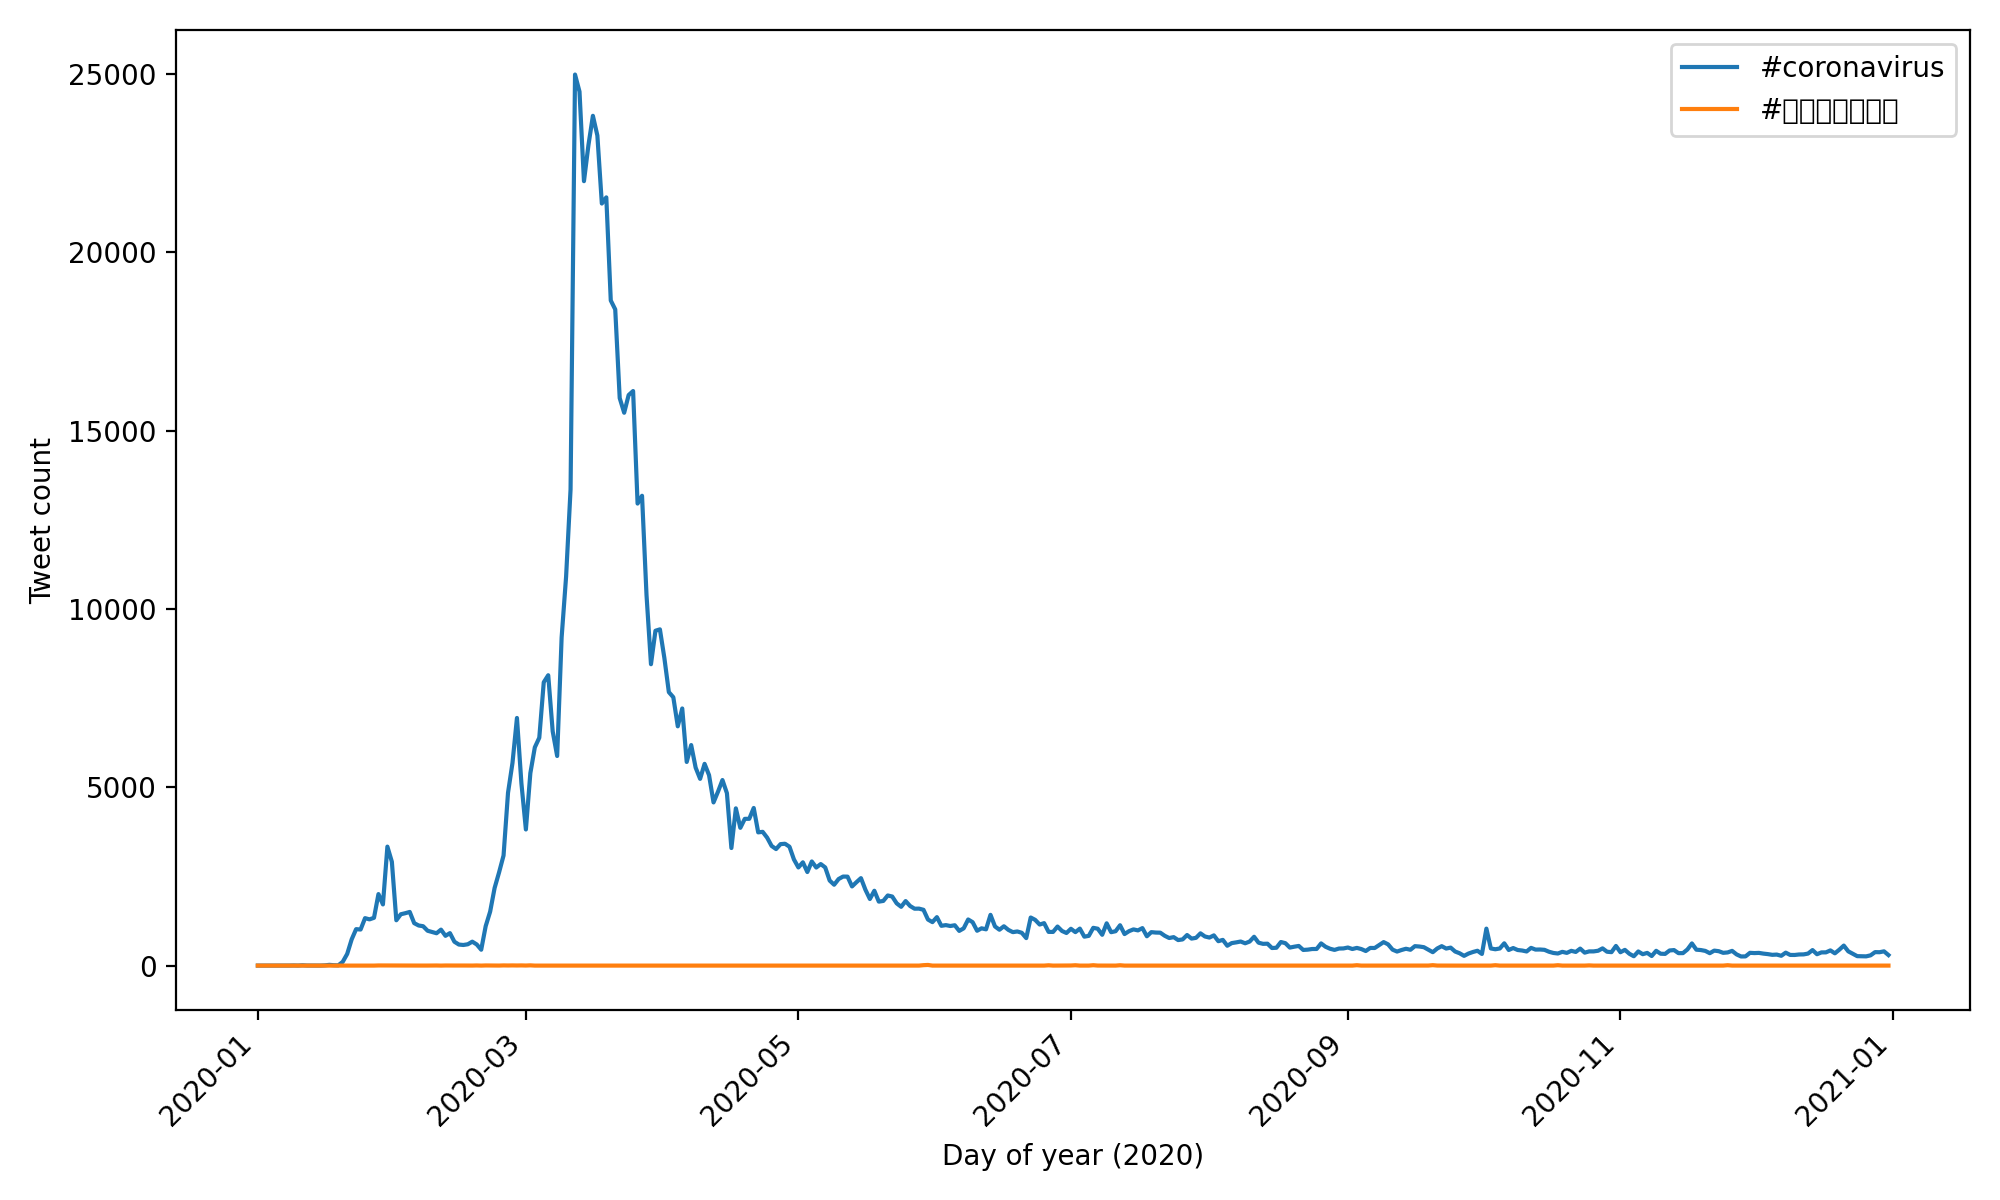
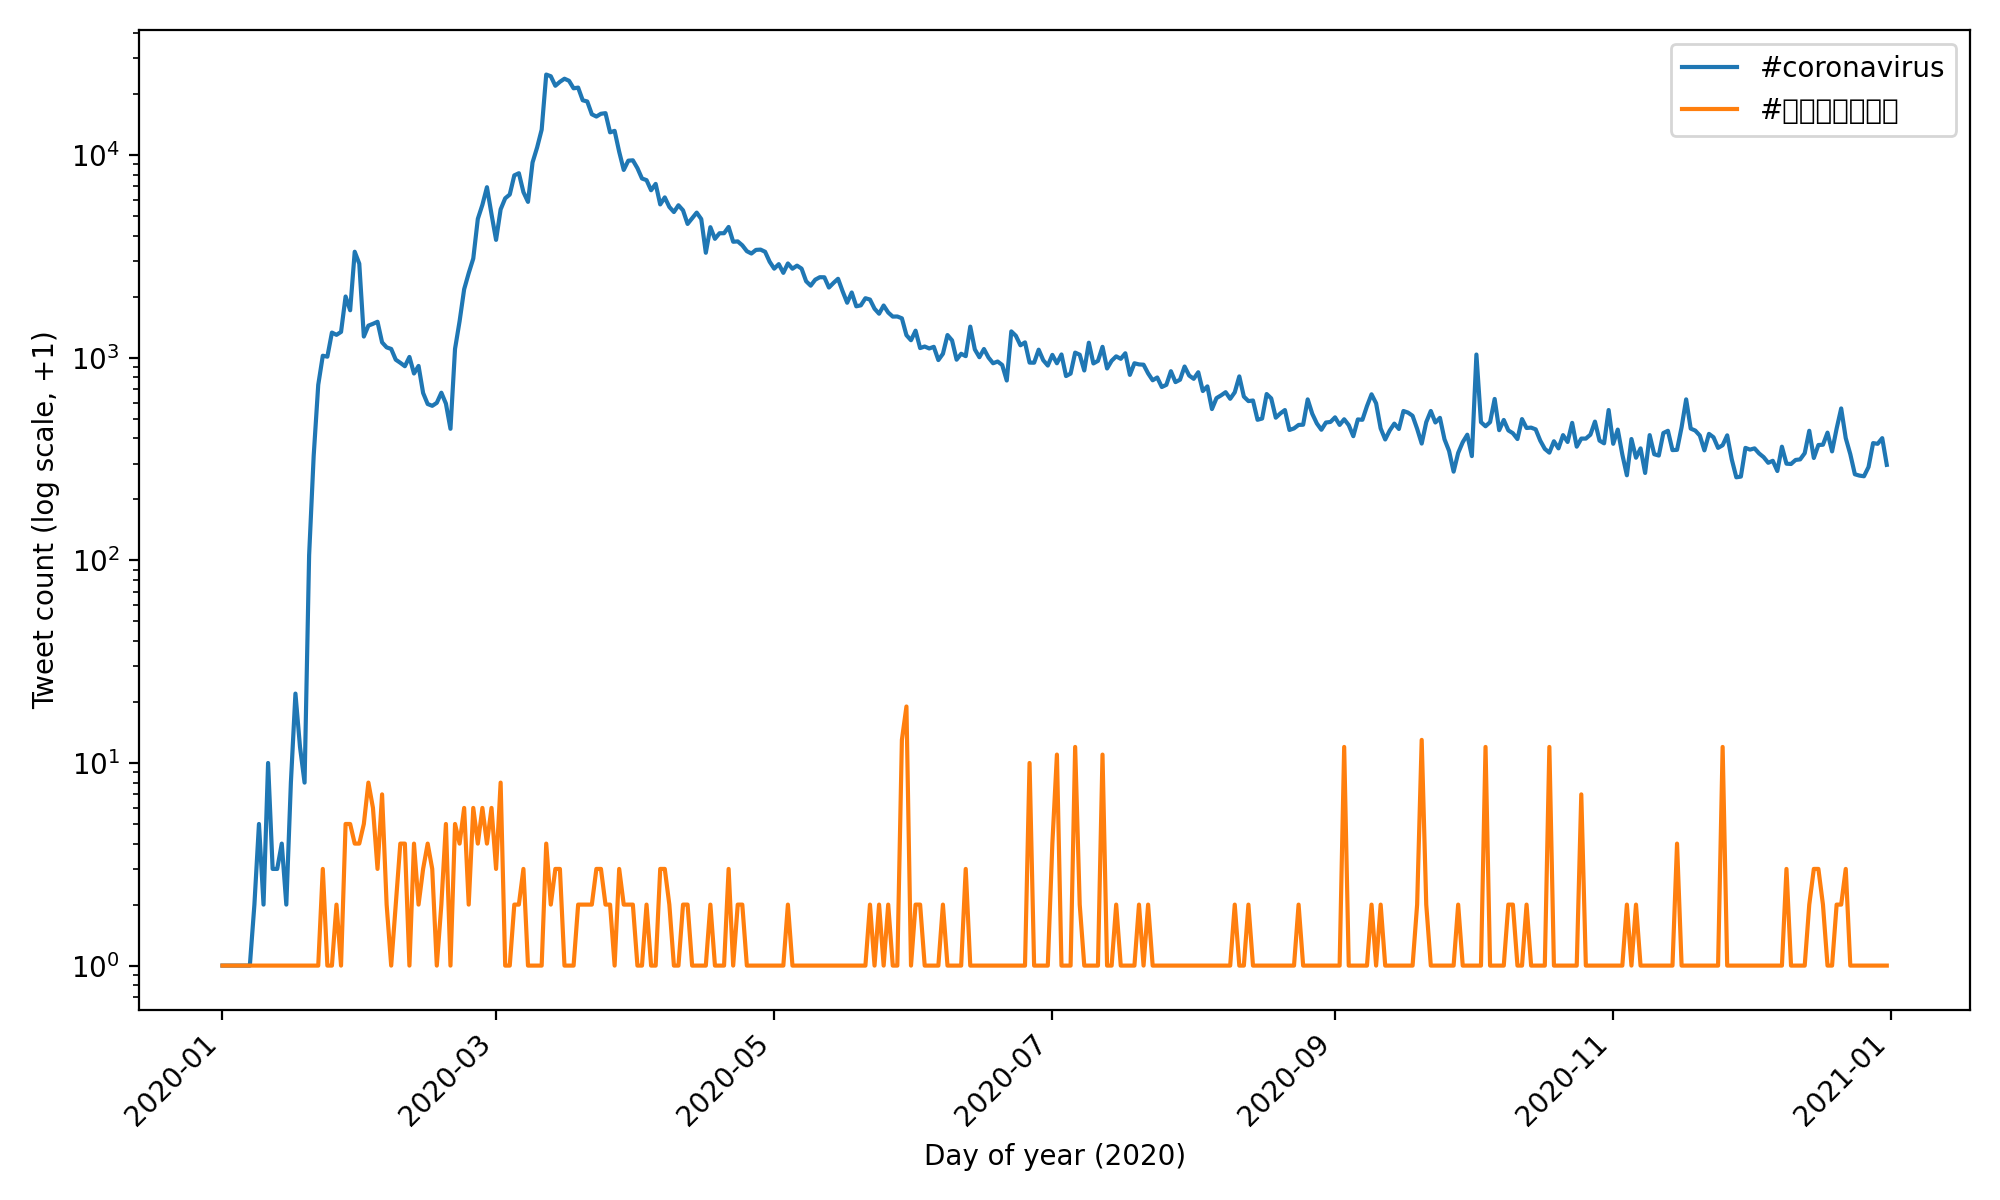
Fixed Figure 5

diff --git a/src/alternative_reduce.py b/src/alternative_reduce.py
@@ -37,7 +37,7 @@ for p in paths:
     for h in args.hashtags:
         d = counts.get(h, {})
         if isinstance(d, dict):
-            series[h].append(sum(d.values()))
+            series[h].append(sum(d.values()) + 1)
         else:
             series[h].append(0)
 
@@ -48,7 +48,9 @@ for h in args.hashtags:
     plt.plot(dates, series[h], label=h)
 
 plt.xlabel("Day of year (2020)")
-plt.ylabel("Tweet count")
+plt.ylabel("Tweet count (log scale, +1)")
+plt.yscale("log")
+
 plt.legend()
 plt.xticks(rotation=45, ha="right")
 plt.tight_layout()
